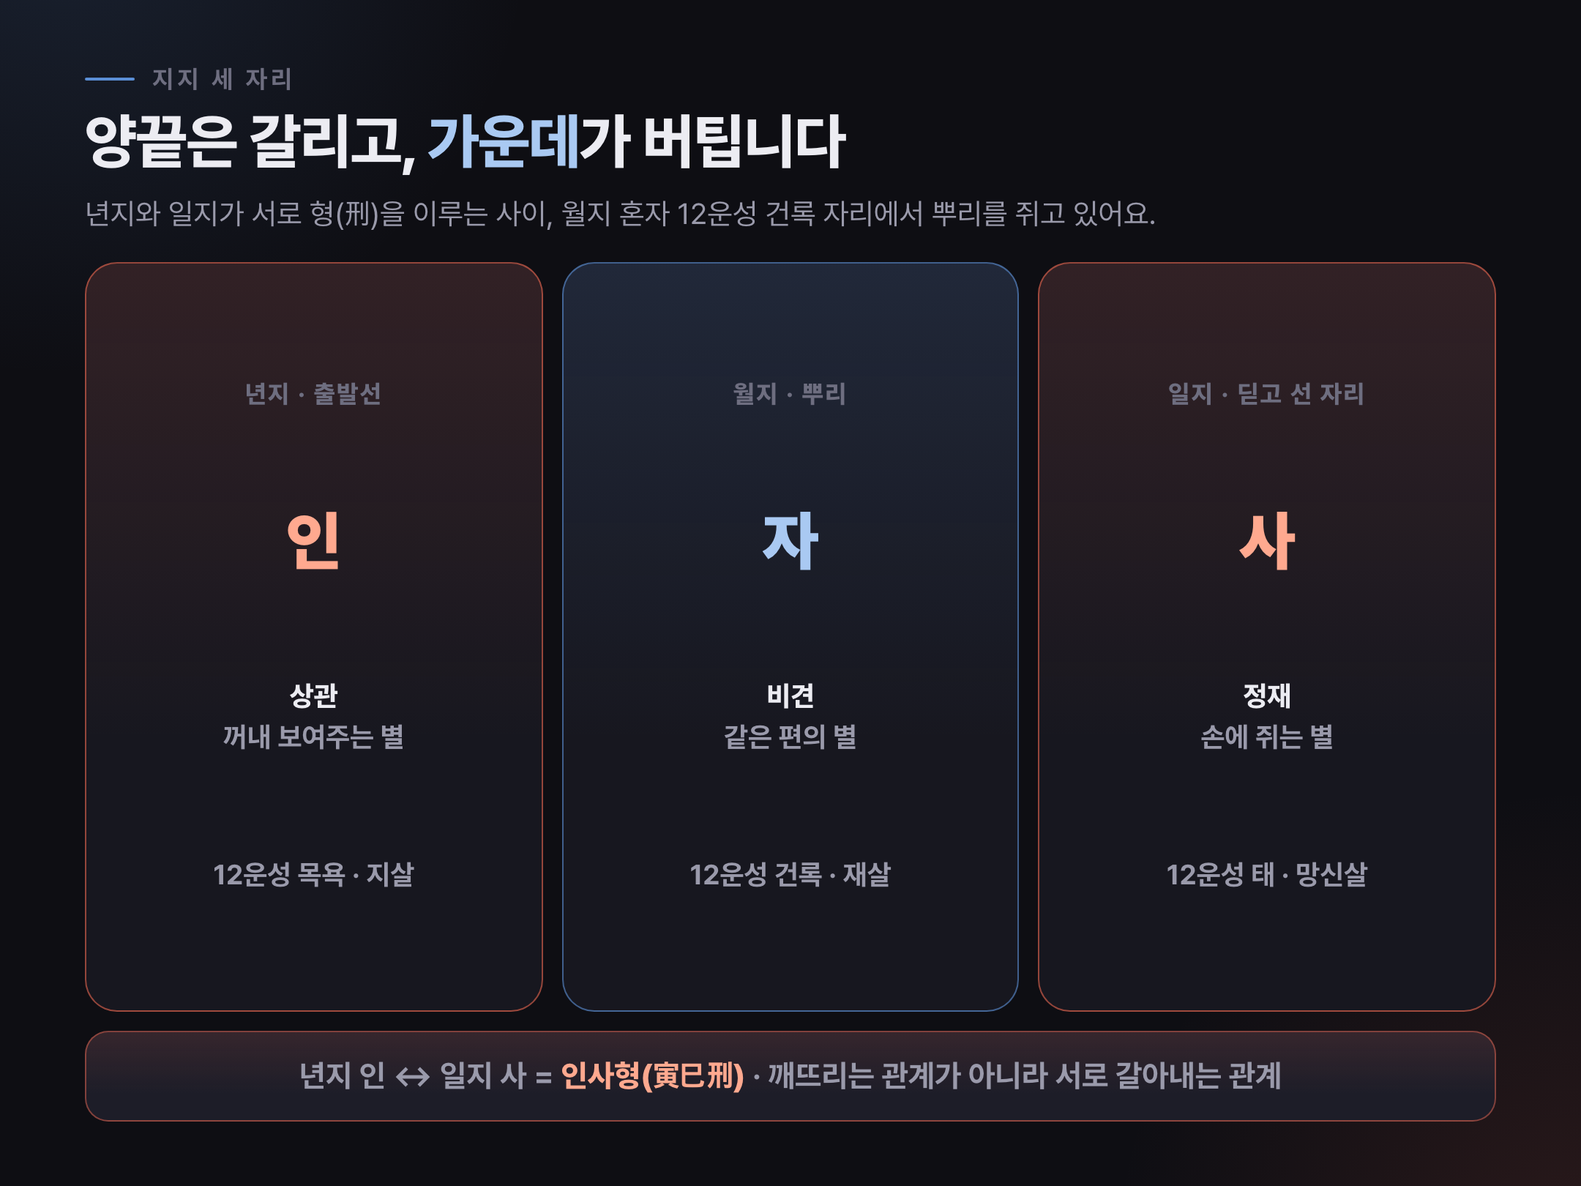
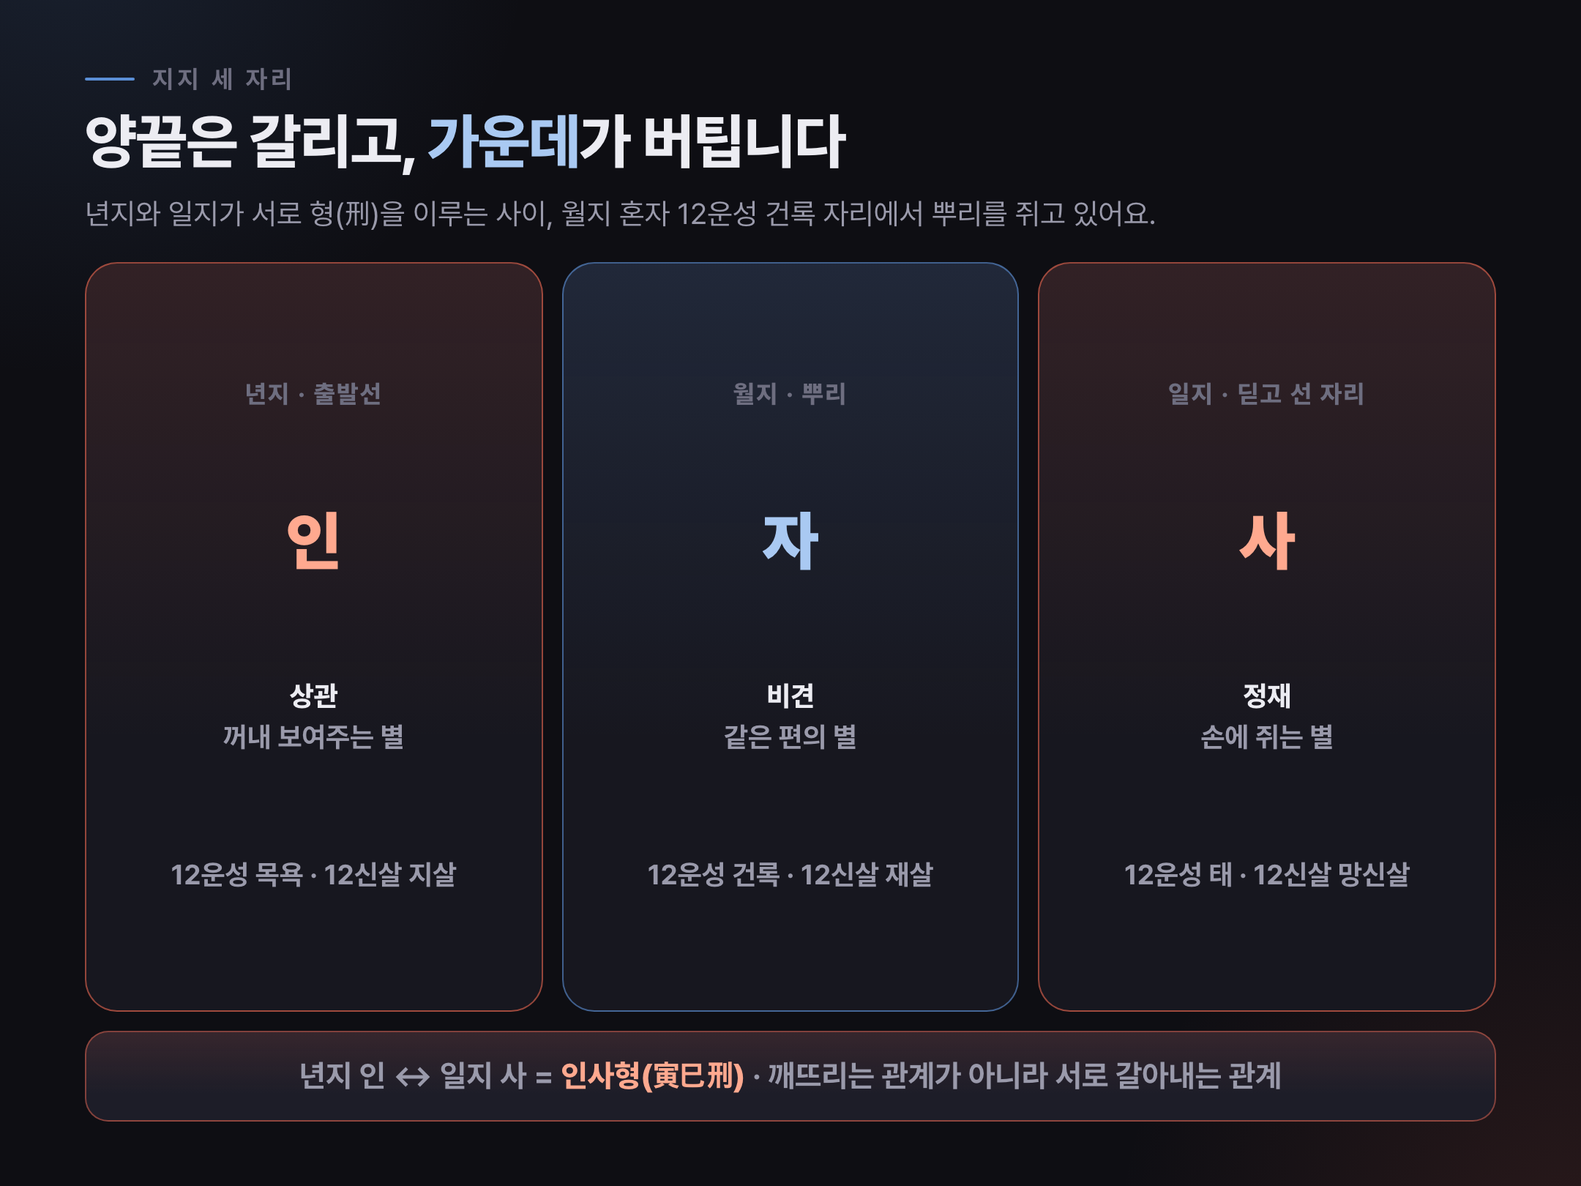
fix(stories): critic 지적 반영 — 사전 반박 2건 + 무출처 주장 2건 제거
독립 critic 2편(글당 1회 개별 실행)이 잡은 [상]을 사전·엔진으로 직접 재확인하고 고쳤다.

saeun-2027 [상]:
- "해(亥)나 묘(卯)가 있으면 목국을 이룬다" → 사전(haemyomi-samhap.ts:41)은
  "두 글자만 있으면 반합이라 작용이 약하다"고 적는다. 조사 하나가 사전을 뒤집고 있었다.
  체크리스트 3항도 같은 과장을 상속하고 있어 함께 수정.
- 오프너 4비트가 rich-2026-saju와 골격이 같았다(related로 나란히 노출되는 글이다) → 재작성
- figure2 하단 바가 본문 수정을 안 따라와 옛 문안(사람·계약)을 나르고 있었다 → 재렌더

kimjunsu [상]:
- "일반 신살 = 일간 기준"이라 단정했으나 사전(sipisinsal/intro.ts)은 "일반 신살은 각자
  다른 기준"이라 적고, 이 글이 든 신살 중 일간 기준은 천을귀인 하나뿐이다.
  재살·망신살은 엔진(makeSamhapMatch)상 둘 다 년지 삼합에서 나온다 → 서술 교체
- 무출처 빈도 주장 2건("드물지 않게 보이는 배치"·"~경우도 흔합니다") 제거.
  사전에 있는 건 "법조·의료·군경" 자질 한 줄뿐이라 그쪽으로 정박
- 무은지형은 인·사·신 삼형인데 두 글자만 든 사실을 안 밝히고 있었다 → 명시 + 사전 링크
- "흉살은 넷이 아니라 둘" → 지살도 엔진상 type:bad라 자기모순. "일반 신살에서 잡히는"으로 한정
- ctaAfter 2→3(자기진단 직후), fig2 신살 라벨에 12운성/12신살 구분 명시

Changed region(s): [[0.7134, 0.7099, 0.8995, 0.7716], [0.4032, 0.7099, 0.5894, 0.7716], [0.1241, 0.7099, 0.2792, 0.7716]]

diff --git a/lib/stories/data/kimjunsu.ts b/lib/stories/data/kimjunsu.ts
@@ -7,7 +7,7 @@ export const kimJunsu: Story = {
   excerpt:
     "1986년 12월 15일 계사(癸巳)일주. 태어난 해의 칸과 본인 칸이 서로 형(刑)을 이루고 있어요. 부딪히는 두 칸과, 그 사이에서 뿌리를 쥐고 있는 가운데 칸을 같이 놓고 봅니다.",
   intro:
-    "무대를 오래 지킨 사람의 이력에는 대체로 한 번쯤 방향이 꺾인 지점이 있어요. 김준수는 2003년 아이돌 그룹으로 데뷔했고, 2010년 뮤지컬 '모차르트!'의 볼프강으로 무대에 처음 섰어요. 그리고 2012년 '엘리자벳'으로 한국뮤지컬대상 남우주연상을 받았습니다. 노래하던 사람이 연기하는 무대로 자기 자리를 옮겨 앉힌 셈이에요.\n\n원국으로 옮겨 놓으면 이 대목이 생각보다 또렷하게 나와요.\n\n1986년 12월 15일 양력생이고 일주가 **계사(癸巳)**예요. 위 글자가 [계수](/dict/cheongan/gye), 아래 글자가 [사화](/dict/jiji/sa)예요. 태어난 시각은 공개된 자료가 없어 시주는 비워 둡니다. 아래 풀이는 남은 여섯 글자 안에서만 이뤄져요.\n\n이 여섯 글자에서 도드라지는 건 지지 세 자리의 관계예요. 양끝이 서로를 갈고, 가운데가 그 마찰을 받치고 있습니다.",
+    "무대를 오래 지킨 사람의 이력에는 대체로 한 번쯤 방향이 꺾인 지점이 있어요. 김준수는 2003년 아이돌 그룹으로 데뷔했고, 2010년 뮤지컬 '모차르트!'의 볼프강으로 뮤지컬 무대에 처음 섰어요. 그리고 2012년 '엘리자벳'으로 한국뮤지컬대상 남우주연상을 받았습니다. 노래하던 사람이 연기하는 무대로 자기 자리를 옮겨 앉힌 셈이에요.\n\n원국으로 옮겨 놓으면 이 대목이 생각보다 또렷하게 나와요.\n\n1986년 12월 15일 양력생이고 일주가 **계사(癸巳)**예요. 위 글자가 [계수](/dict/cheongan/gye), 아래 글자가 [사화](/dict/jiji/sa)예요. 태어난 시각은 공개된 자료가 없어 시주는 비워 둡니다. 아래 풀이는 남은 여섯 글자 안에서만 이뤄져요.\n\n이 여섯 글자에서 도드라지는 건 지지 세 자리의 관계예요. 양끝이 서로를 갈고, 가운데가 그 마찰을 받치고 있습니다.",
   sections: [
     {
       heading: "태어난 날 칸부터 — 겨울에 태어난 이슬",
@@ -18,7 +18,7 @@ export const kimJunsu: Story = {
         },
         {
           kind: "p",
-          text: "같은 물이어도 계수는 바다나 큰 강이 아니에요. 이슬·안개·실개천처럼 작고 스미는 물이에요. 세게 밀어붙여 뚫는 대신 틈을 따라 들어가 젖어드는 결이죠. 그리고 태어난 달이 자월(子月), 한겨울이에요. 겨울은 물의 기운이 가장 왕성한 계절이라, 자기 계절에 태어난 물인 셈이에요.",
+          text: "같은 물이어도 계수는 바다나 큰 강이 아니에요. 이슬·안개·실개천처럼 작고 스미는 물이에요. 세게 밀어붙여 뚫는 대신 틈을 따라 들어가 젖어드는 결이죠. 태어난 달은 한겨울 자월(子月)입니다. 물의 기운이 일 년 중 가장 두터운 달이라, 제 계절 위에 선 물인 셈이에요.",
         },
         {
           kind: "p",
@@ -42,7 +42,7 @@ export const kimJunsu: Story = {
         },
         {
           kind: "p",
-          text: "형(刑)은 충처럼 정면으로 깨뜨리는 관계는 아니에요. 서로 밀고 당기며 갈아내는 쪽에 가까워요. 특히 인사형은 무은지형(無恩之刑)이라 불러요. 서로 돕는 관계인 줄 알았던 자리에서 마찰이 생기는 결이라는 뜻이에요.",
+          text: "형(刑)은 충처럼 정면으로 깨뜨리는 관계는 아니에요. 서로 밀고 당기며 갈아내는 쪽에 가까워요. 인(寅)·사(巳)·신(申) 셋이 다 모이면 [무은지형(無恩之刑)](/dict/relation/insin-hyung), 은혜를 잊는 형이라 부릅니다. 여기는 신(申)이 없는 두 글자짜리라, 사전 표현대로 형의 작용이 일부 일어나는 자리예요.",
         },
         {
           kind: "p",
@@ -51,7 +51,7 @@ export const kimJunsu: Story = {
         {
           kind: "callout",
           tone: "tip",
-          text: "형이 있다고 나쁜 사주는 아니에요. 명리에서 형은 '갈리는 자리'예요. 갈리면 닳기도 하지만 날이 서기도 해요. 무대에서 오래 버티는 사람들 원국에서 드물지 않게 보이는 배치입니다.",
+          text: "형이 있다고 나쁜 사주는 아니에요. 명리에서 형은 깨뜨리는 관계가 아니라 깎이는 관계로 봅니다. 사전도 이 형의 힘을 갈등을 다루는 일 — 법조·의료·군경 쪽 — 의 자질로 연결해요.",
         },
         {
           kind: "p",
@@ -79,7 +79,7 @@ export const kimJunsu: Story = {
         },
         {
           kind: "p",
-          text: "한 가지 덧붙이면, 여섯 글자 안에 토(土)가 한 자리도 없어요. 계수에게 토는 관성 — 나를 규율하고 자리를 정해 주는 별 — 이에요. 밖에서 정해 주는 틀이 원국 겉면에는 안 보인다는 뜻인데, 이건 결핍이라기보다 **자기 규칙을 스스로 세워야 하는 배치**로 읽어요. 다만 태어난 시각이 빠져 있어 시주에 토가 들었을 가능성은 열려 있습니다.",
+          text: "한 가지 덧붙이면, 여섯 글자에 토(土)가 없습니다. 계수에게 토는 관성 — 자리와 규율을 정해 주는 별 — 이에요. 이 글의 축은 그 빈자리가 아니라 앞에서 본 두 칸의 마찰인데, 눌러 주는 별이 겉에 없으면 그 마찰이 더 또렷하게 드러납니다.",
         },
       ],
     },
@@ -92,7 +92,7 @@ export const kimJunsu: Story = {
         },
         {
           kind: "p",
-          text: "흉살 쪽도 숨기지 않고 적을게요. 재살과 망신살이 잡히는데, 여기엔 짚어둘 게 하나 있어요. 신살은 산출 체계가 둘이에요. 일간을 기준으로 보는 일반 신살과, 띠(년지)를 기준으로 열두 자리를 배정하는 [12신살](/dict/sipisinsal/intro)이요. **재살과 망신살은 이 두 체계 양쪽에서 같이 걸린 거예요.** 살이 네 개가 아니라, 같은 자리가 두 번 호명된 겁니다.",
+          text: "흉살 쪽도 숨기지 않고 적을게요. 재살과 망신살이 함께 잡힙니다. 다만 이 두 이름은 [12신살](/dict/sipisinsal/intro) 목록에도 그대로 올라와요. 두 계산이 같은 출발점 — 태어난 해의 지지와 그 삼합 — 을 쓰기 때문에 도착하는 칸이 포개집니다. 그래서 일반 신살에서 잡히는 흉살은 넷이 아니라 둘입니다. 12신살 쪽은 아래 표에 따로 적어 둘게요.",
         },
         {
           kind: "table",
@@ -103,7 +103,7 @@ export const kimJunsu: Story = {
             ["일지", "사(巳)", "망신살", "태"],
           ],
           caption:
-            "12신살은 띠 기준으로 열두 자리에 하나씩 배정돼요. 누구나 자리마다 하나씩 갖게 되는 구조라 '몇 개나 걸렸나'로 셀 대상은 아니에요.",
+            "12신살은 태어난 해의 지지를 기준으로 열두 자리에 하나씩 배정돼요. 조건이 맞아야 붙는 별이 아니라 어느 사주에나 자동으로 붙습니다.",
         },
         {
           kind: "checklist",
@@ -144,11 +144,11 @@ export const kimJunsu: Story = {
             },
             {
               q: "형(刑)이 있으면 안 좋은 건가요?",
-              a: "형 하나로 좋고 나쁨을 가르지는 않아요. 형은 깨뜨리는 관계가 아니라 갈리는 관계예요. 마찰이 소모로 갈지 단련으로 갈지는 나머지 글자와 대운이 함께 정해요. 형이 있는 원국이 오히려 한 분야를 깊게 파는 경우도 흔합니다.",
+              a: "형 하나로 좋고 나쁨을 가르지는 않아요. 형은 깨뜨리는 관계가 아니라 갈리는 관계예요. 마찰이 소모로 갈지 단련으로 갈지는 나머지 글자와 대운이 함께 정해요.",
             },
             {
-              q: "신살이 네 개면 많은 편인가요?",
-              a: "숫자로 셀 대상이 아니에요. 특히 12신살은 띠 기준으로 열두 자리에 하나씩 배정되는 구조라 누구에게나 자리마다 하나씩 있어요. 여기서도 재살과 망신살은 두 체계에서 겹쳐 잡힌 것이라 개수가 부풀어 보이는 것뿐이에요.",
+              q: "인사형은 세 글자가 다 있어야 성립하지 않나요?",
+              a: "인·사·신 셋이 다 모이면 가장 강하게 봅니다. 다만 사전은 두 글자만 들어도 형의 작용이 일부 일어난다고 적고, 실제 분석에서도 두 글자 이상이면 형으로 표시해요. 이 원국은 인과 사, 두 글자가 들어온 경우입니다.",
             },
             {
               q: "태어난 시간을 모르면 풀이가 의미 없나요?",
@@ -159,13 +159,13 @@ export const kimJunsu: Story = {
       ],
     },
   ],
-  ctaAfter: 2,
+  ctaAfter: 3,
   cta: {
     label: "내 원국에도 갈리는 자리가 있는지 보기",
     href: "/menu",
     tone: "brand",
   },
-  related: ["gyesu-ilgan-man", "ilju-personality", "sibiunseong"],
+  related: ["gyesu-ilgan-man", "yangsejong", "ilju-personality"],
   keywords: [
     "김준수 사주",
     "김준수 일주",
@@ -174,6 +174,7 @@ export const kimJunsu: Story = {
     "김준수 계사일주",
     "계수 일간",
     "인사형",
+    "무은지형",
     "김준수 생년월일",
     "김준수 뮤지컬",
     "연예인 사주",
@@ -188,7 +189,7 @@ export const kimJunsu: Story = {
     birthDate: "1986-12-15",
     calendar: "solar",
     gender: "M",
-    source: "위키백과 (2026-09-01 확인)",
+    source: "위키백과 공표 생일 기준 (2026-09-01 확인)",
     iljuLabel: "계사(癸巳)일주 · 시 미상",
   },
   publishedAt: "2026-09-01",

diff --git a/lib/stories/data/saeun-2027.ts b/lib/stories/data/saeun-2027.ts
@@ -7,10 +7,10 @@ export const saeun2027: Story = {
   excerpt:
     "2027년은 정미(丁未)년이에요. 다만 \"정미년은 이런 해\"라는 말만으로는 반쪽이에요. 그 두 글자가 내 사주 글자와 어디서 만나는지까지 봐야 내 해가 됩니다.",
   intro:
-    "연말이 가까워지면 어김없이 나오는 질문이 있어요. \"내년은 좀 어때요?\" 올해가 고단했던 사람일수록 더 그렇죠. 뭔가 하나쯤은 풀렸으면 하는 마음으로 묻게 돼요.\n\n그런데 신년운세를 보러 갔다가 오히려 헷갈린 채 나온 경험도 흔해요. 어디선 좋다 하고 어디선 조심하라 하고, 같은 해인데 말이 다르니까요.\n\n이유는 단순해요. 그 해의 간지 두 글자는 모든 사람에게 똑같이 오는데, **그 두 글자가 만나는 여덟 글자가 사람마다 다르기 때문**이에요. 그래서 \"정미년은 이런 해\"라는 문장만으로는 절반도 못 온 거예요.\n\n오늘은 순서대로 갈게요. 2027년 정미(丁未) 두 글자가 어떤 글자인지, 이 글자가 내 사주에서 무슨 역할로 앉는지, 그리고 내 지지와 부딪히거나 손잡는 자리는 어디인지까지요.",
+    "한 곳에서는 좋다 하고 다른 곳에서는 조심하라 합니다. 같은 해를 두고 말이 갈리니 듣고 나와도 정리가 안 돼요. 신년운세를 보고 오히려 더 헷갈린 경험, 한 번쯤 있으실 거예요.\n\n말이 갈리는 데는 이유가 있습니다. 그 해의 간지 두 글자는 모두에게 똑같이 오는데, **그 두 글자를 받아 내는 여덟 글자가 사람마다 다르거든요.** 같은 정미년이 누구에게는 정리의 해, 누구에게는 결실의 해가 되는 게 그래서예요.\n\n그러니 \"정미년은 이런 해\"라는 문장은 절반짜리입니다. 나머지 절반은 내 글자를 대 봐야 채워져요.\n\n아래는 그 대조를 직접 해 볼 수 있게 짠 순서입니다. 정미 두 글자를 뜯어보고, 그 글자가 내 사주에서 어떤 역할로 앉는지 보고, 마지막으로 내 지지와 어디서 부딪히고 어디서 손잡는지까지요.",
   sections: [
     {
-      heading: "2027년은 정미년, 태양이 아니라 등불의 해예요",
+      heading: "2027년은 정미년, 등불 쪽의 해예요",
       blocks: [
         {
           kind: "p",
@@ -18,7 +18,7 @@ export const saeun2027: Story = {
         },
         {
           kind: "p",
-          text: "위 글자 [정(丁)](/dict/cheongan/jeong)은 화(火)이면서 음에 속하는 불이에요. 명리에서는 등촉지화(燈燭之火), 사람이 다듬어 켠 빛에 비유해요. 사방을 통째로 비추는 태양이 아니라 가까운 자리를 은은하게 밝히는 등불·달빛 쪽이에요.",
+          text: "위 글자 [정(丁)](/dict/cheongan/jeong)은 화(火)이면서 음에 속하는 불이에요. 명리에서는 등촉지화(燈燭之火), 사람이 다듬어 켠 빛에 비유해요. 사방을 통째로 비추는 태양 쪽은 아니에요. 가까운 자리를 은은하게 밝히는 등불이나 달빛에 가깝습니다.",
         },
         {
           kind: "p",
@@ -26,17 +26,17 @@ export const saeun2027: Story = {
         },
         {
           kind: "p",
-          text: "직전 해와 나란히 놓으면 결이 더 선명해져요. 2026년 병오(丙午)는 태양 같은 큰 불이 가장 왕성한 자리에 앉은 해였어요. 2027년 정미는 같은 불인데 크기가 줄고 방향이 안으로 돌아요. 판을 크게 벌리는 불에서, 벌여둔 걸 다듬고 갈무리하는 불로 넘어가는 셈이에요.",
+          text: "직전 해와 나란히 놓으면 결이 더 선명해져요. 2026년 병오(丙午)는 태양 같은 큰 불이 가장 왕성한 자리에 앉은 해예요. 2027년 정미는 같은 불인데 크기가 줄고 방향이 안으로 돌아요. 판을 크게 벌리는 불에서, 벌여둔 걸 다듬고 갈무리하는 불로 넘어가는 셈이에요.",
         },
         {
           kind: "callout",
           tone: "tip",
-          text: "세운이 갈리는 시점은 1월 1일도 설날도 아니에요. 명리에서 새해는 [입춘](/dict/saju/jeolgi)(양력 2월 4일경)부터예요. 1월에 일어난 일은 아직 병오년 몫으로 봅니다.",
+          text: "명리에서 새해는 [입춘](/dict/saju/jeolgi)(양력 2월 4일경)부터 시작해요. 양력 1월 1일도 음력 설도 기준이 되지 않습니다. 1월에 일어난 일은 아직 병오년 몫으로 봅니다.",
         },
       ],
     },
     {
-      heading: "세운은 '올해가 어떠냐'가 아니라 '내 글자와 어떻게 만나냐'예요",
+      heading: "같은 정미년인데 사람마다 체감이 갈리는 이유",
       blocks: [
         {
           kind: "p",
@@ -103,19 +103,19 @@ export const saeun2027: Story = {
         },
         {
           kind: "p",
-          text: "반대로 손을 잡는 자리도 있어요. 지지에 오(午)가 있으면 [오미합(午未合)](/dict/relation/omi-hap)으로 묶이면서 화(火) 기운이 더 붙어요. 해(亥)나 묘(卯)가 있으면 [해묘미 삼합](/dict/relation/haemyomi-samhap)의 마지막 자리가 채워지며 목(木) 기운이 국을 이루고, 사(巳)와 오(午)가 함께 있으면 [사오미 방합](/dict/relation/saomi-banghap)으로 여름 화 기운이 한 덩어리가 돼요.",
+          text: "반대로 손을 잡는 자리도 있어요. 지지에 오(午)가 있으면 [오미합(午未合)](/dict/relation/omi-hap)으로 묶이면서 화(火) 기운이 더 붙어요. 해(亥)와 묘(卯)가 함께 있으면 [해묘미 삼합](/dict/relation/haemyomi-samhap)의 마지막 자리가 채워지며 목(木) 기운이 국을 이뤄요. 둘 중 하나만 걸리면 반합이라 작용이 약합니다. 사(巳)와 오(午)가 함께 있으면 [사오미 방합](/dict/relation/saomi-banghap)으로 여름 화 기운이 한 덩어리가 돼요.",
         },
         {
           kind: "p",
-          text: "축(丑)과 술(戌)이 이미 같이 있는 사주라면 [축술미 삼형](/dict/relation/chuksulmi-hyung)이 완성되는 해이기도 해요. 세력을 믿고 다투는 자리라 사람·계약 문제로 마찰이 생기기 쉬운 배치인데, 미리 알고 문서와 말을 남겨두면 결이 많이 달라져요.",
+          text: "축(丑)과 술(戌)이 이미 같이 있는 사주라면 [축술미 삼형](/dict/relation/chuksulmi-hyung)이 완성되는 해이기도 해요. 세력을 믿고 다투는 자리라 권력·재물·명예를 두고 부딪히기 쉬운 배치예요. 미리 알고 문서와 말을 남겨두면 체감이 많이 달라집니다.",
         },
         {
           kind: "checklist",
-          title: "2027년 내 세운, 이 순서로 확인해보세요",
+          title: "2027년 내 세운, 손으로 짚어보는 다섯 단계",
           items: [
             "태어난 날의 위 글자(일간)를 찾고, 위 표에서 정화가 내게 무슨 별인지 확인한다",
             "내 지지 네 글자에 축(丑)이 있는지 본다 — 있으면 그 칸이 올해 움직이는 자리다",
-            "오(午)·해(亥)·묘(卯)·사(巳)가 있는지 본다 — 합으로 묶이며 기운이 몰리는 자리다",
+            "오(午)가 있는지, 해(亥)와 묘(卯)가 함께 있는지 본다 — 합으로 묶이며 기운이 몰리는 자리다. 한 글자만 걸리면 작용이 약하다",
             "축(丑)과 술(戌)이 함께 있는지 본다 — 삼형이 완성되는 해다",
             "지금 지나는 대운 두 글자와 정미를 나란히 놓고 본다 — 세운만 떼어 읽지 않는다",
           ],
@@ -148,7 +148,7 @@ export const saeun2027: Story = {
       blocks: [
         {
           kind: "p",
-          text: "정미년의 결을 한 문장으로 줄이면 이래요. 크게 벌이는 불이 아니라 다듬는 불, 새로 여는 자리가 아니라 벌여둔 것을 갈무리하는 자리. 등불은 멀리 못 비추는 대신 가까운 것을 정확하게 비춰요.",
+          text: "정미년을 한 문장으로 줄이면 이래요. 크게 벌이는 불에서 다듬는 불로, 새로 여는 자리에서 벌여둔 걸 갈무리하는 자리로 넘어갑니다. 등불은 멀리 못 비추는 대신 가까운 것을 정확하게 비춰요.",
         },
         {
           kind: "p",
@@ -156,7 +156,7 @@ export const saeun2027: Story = {
         },
         {
           kind: "p",
-          text: "그리고 이 글의 표와 항목은 어디까지나 출발점이에요. 여기까지는 누구나 손으로 짚을 수 있는 부분이고, 그 다음 — 내 원국이 정화를 반기는지 버거워하는지, 지금 대운이 그걸 받쳐주는지 — 부터가 실제 풀이의 영역이에요.",
+          text: "다만 위의 표와 항목으로 짚이는 건 딱 두 글자까지입니다. 내 원국이 정화를 반기는지 버거워하는지, 지금 지나는 대운이 그걸 받쳐 주는지는 여덟 글자를 다 세워야 나와요.",
         },
         {
           kind: "faq",
